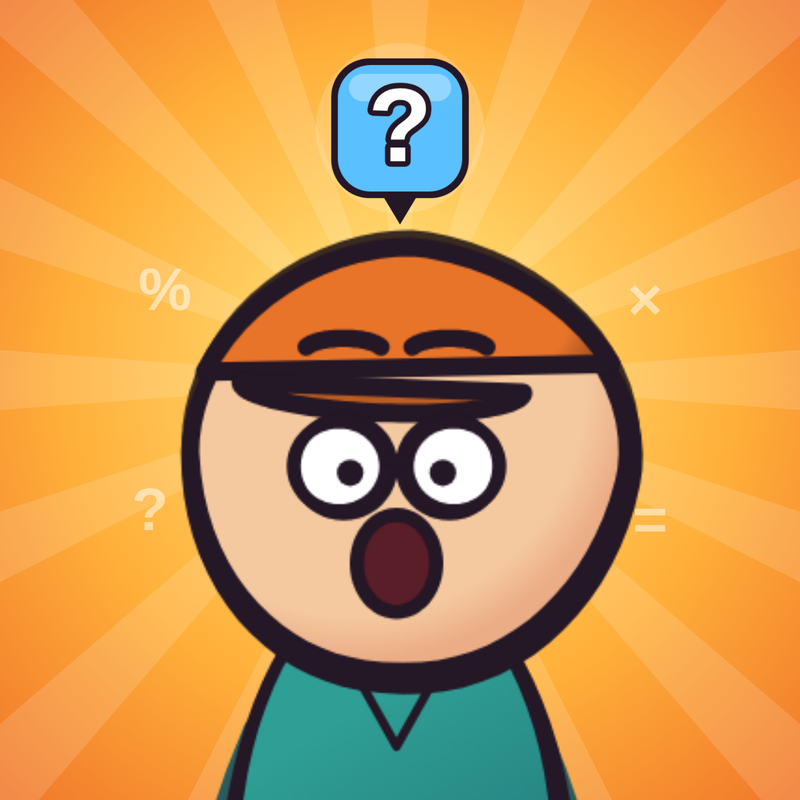
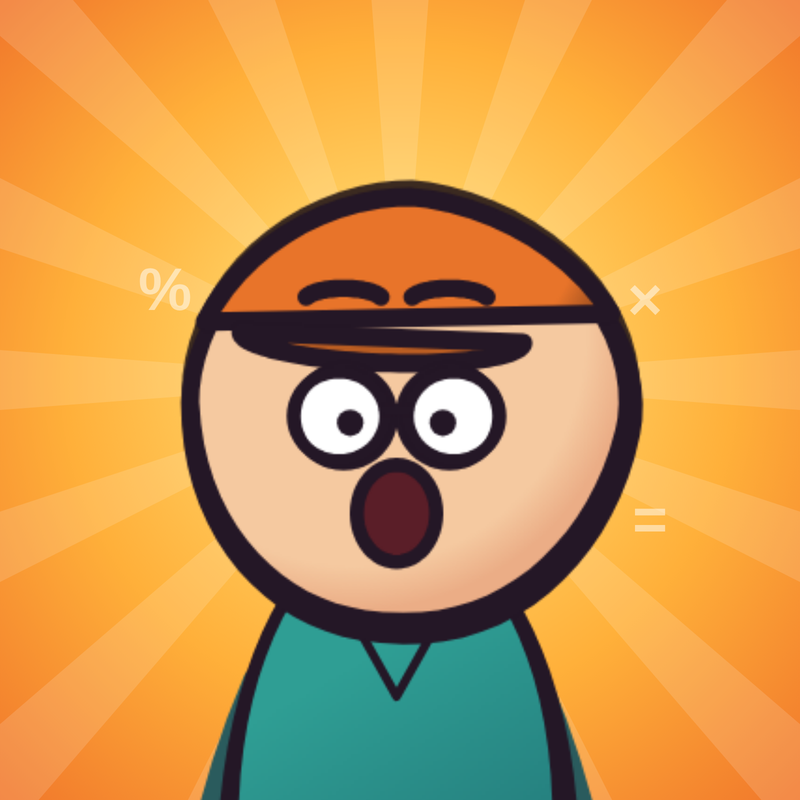
Factopia profile picture without question marks
Claude-Session: https://claude.ai/code/session_013waGN2ARspf4yShZssZUe5

Changed region(s): [[0.1562, 0.0312, 0.8125, 1.0]]

diff --git a/youtube/history-oops/see-again/web/avatar2.html b/youtube/history-oops/see-again/web/avatar2.html
@@ -8,12 +8,9 @@ g.save(); g.translate(800,760); g.globalAlpha=0.14; g.fillStyle='#fff';
 for(let k=0;k<16;k++){ g.rotate(Math.PI/8); g.beginPath(); g.moveTo(0,0); g.lineTo(1200,-90); g.lineTo(1200,90); g.closePath(); g.fill(); } g.restore();
 // small floating facts icons
 g.globalAlpha=0.5; g.fillStyle='#fff'; g.font='900 120px "Arial Black", sans-serif'; g.textAlign='center';
-g.fillText('%',330,620); g.fillText('×',1290,640); g.fillText('?',300,1060); g.fillText('=',1300,1080); g.globalAlpha=1;
+g.fillText('%',330,620); g.fillText('×',1290,640); g.fillText('=',1300,1080); g.globalAlpha=1;
 const cv=document.createElement('canvas'); cv.width=600; cv.height=1000;
 T.romanFront(new T.Pen(cv.getContext('2d')),'host',{seed:4,expr:'shock'});
-g.drawImage(cv,-329,-200,2244,3740);
-// number tag above the head
-const tc=document.createElement('canvas'); tc.width=600; tc.height=1000; tagCard(new T.Pen(tc.getContext('2d')),{t:'?',col:'#5ac0ff'});
-g.drawImage(tc, 800-330, 10-560*1.1+120, 660, 1100);
+g.drawImage(cv,-329,-300,2244,3740);
 window.done=true;
 </script></body></html>
